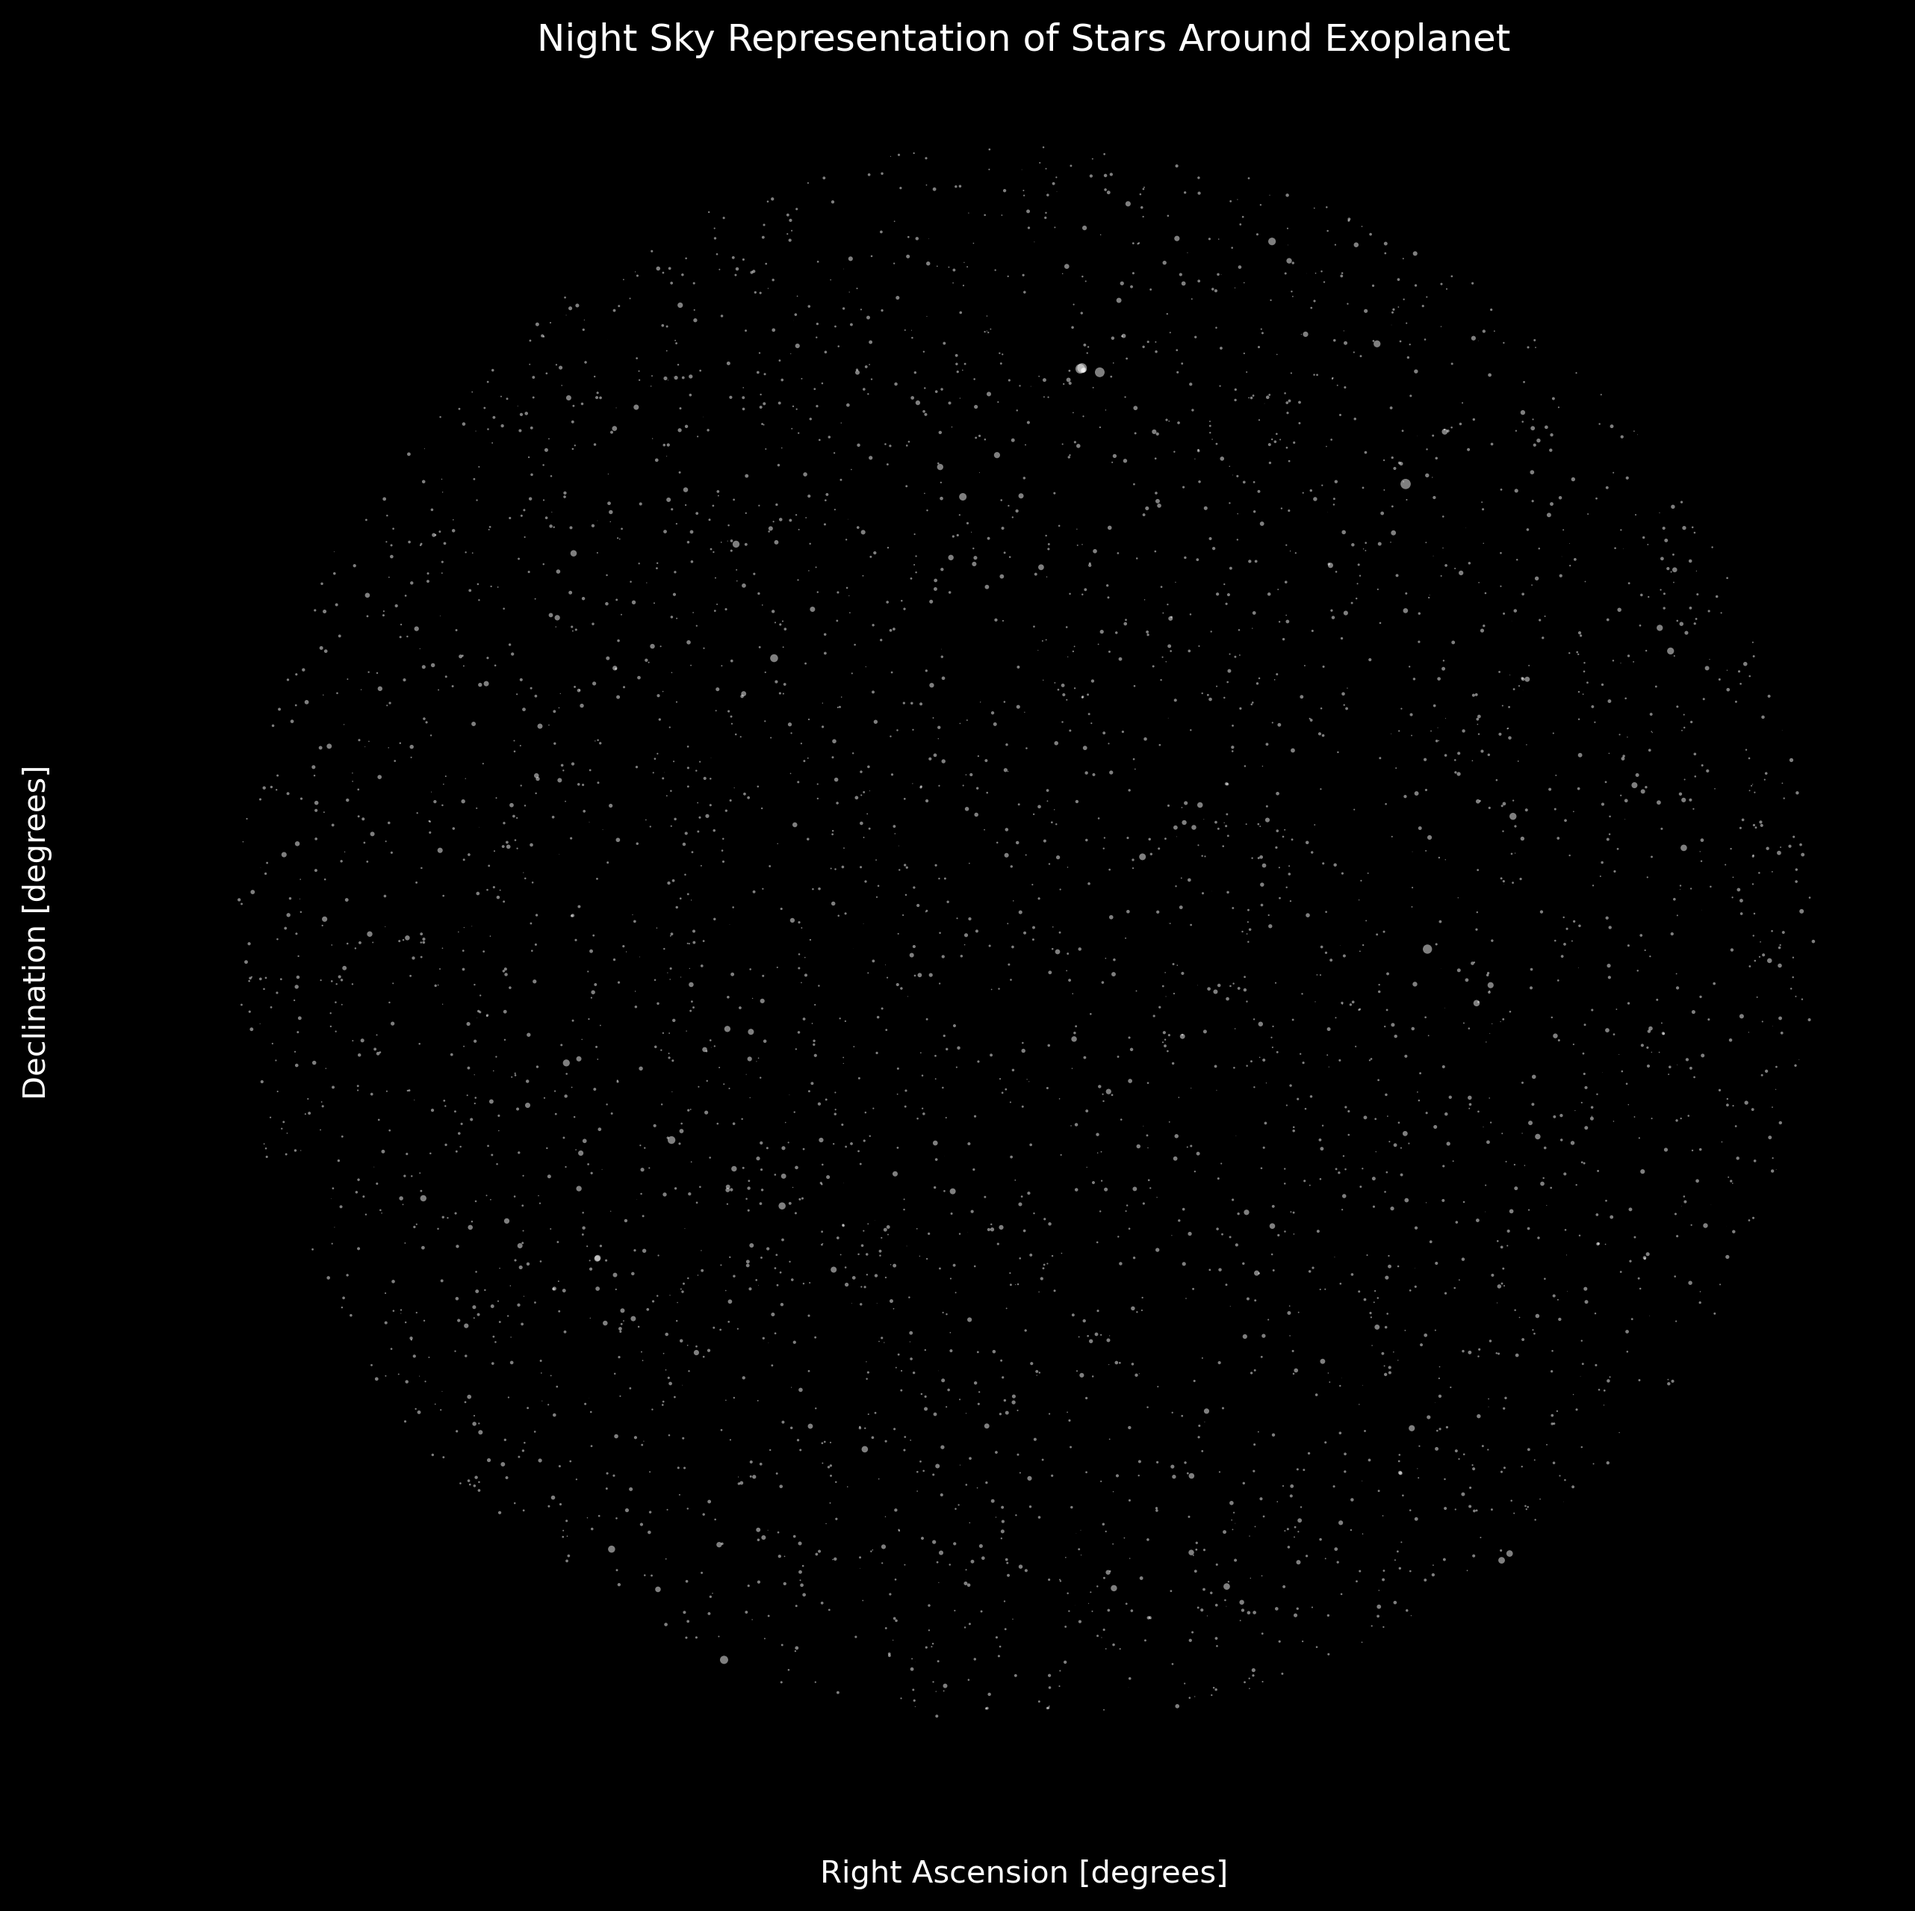
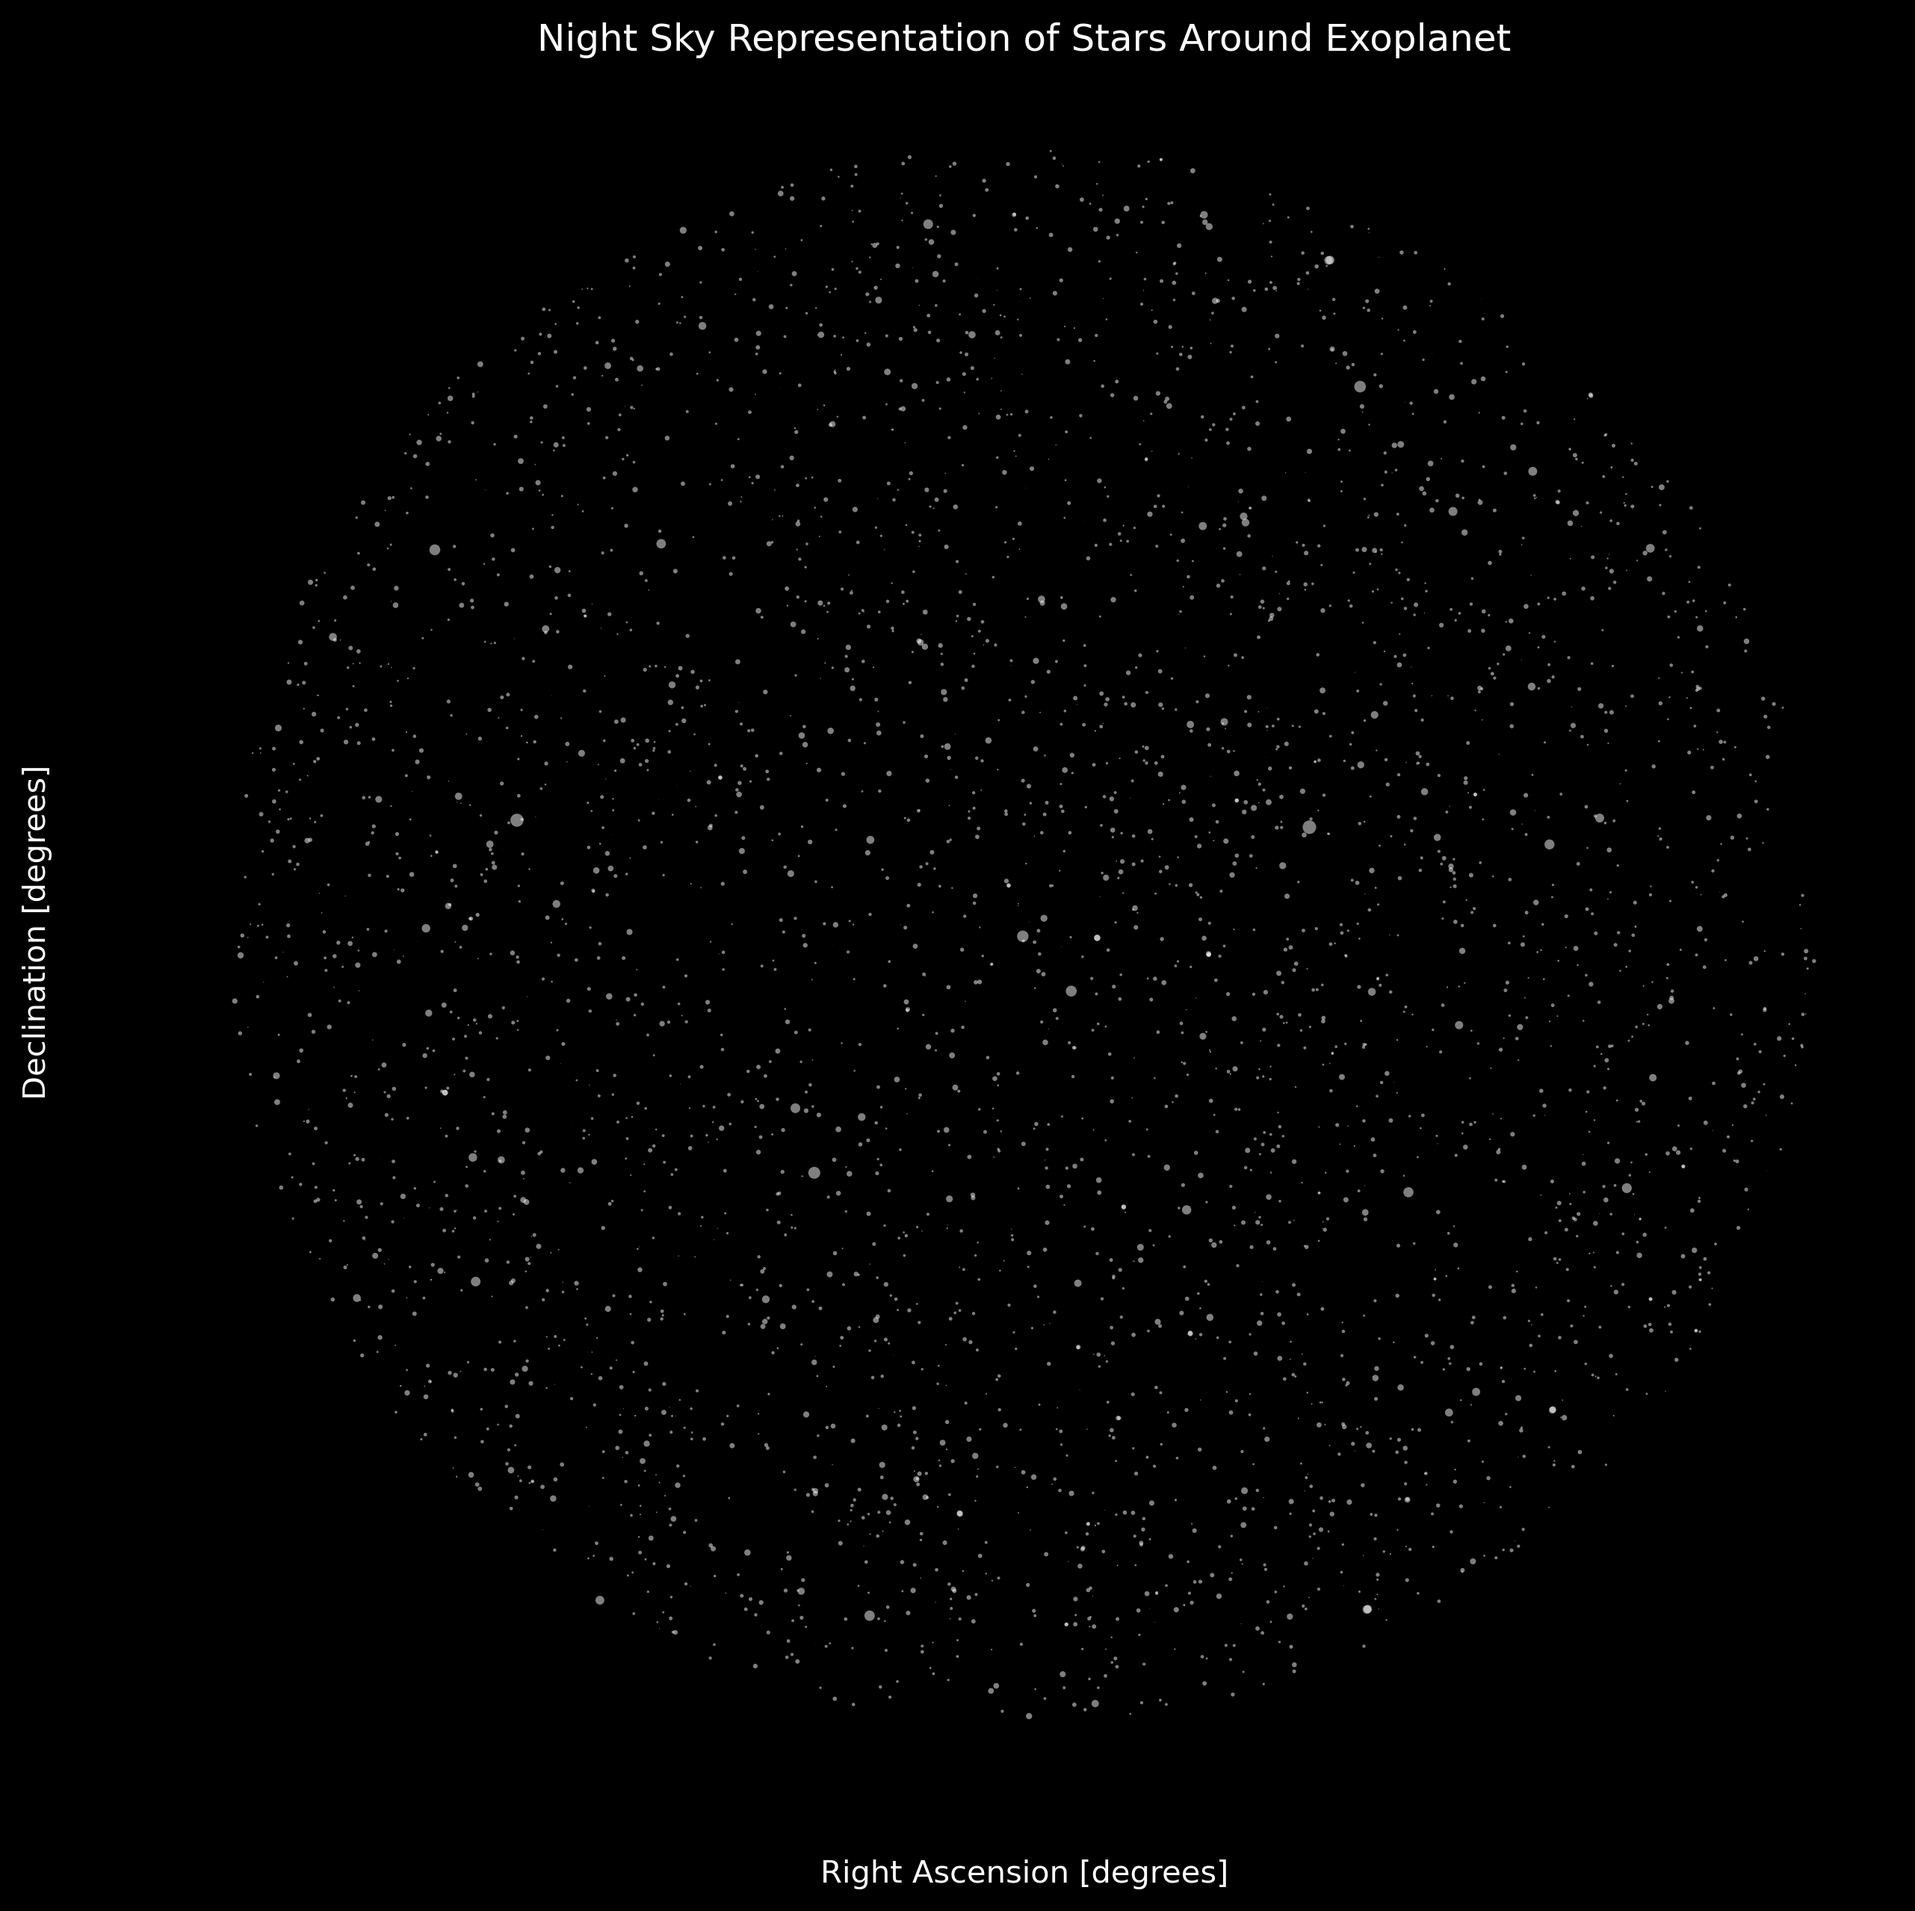
.

diff --git a/exoskyUI/3d-simulation.html b/exoskyUI/3d-simulation.html
@@ -16,10 +16,19 @@
             padding: 10px;
             display: none;
         }
+        #debug-info {
+            position: absolute;
+            top: 10px;
+            right: 10px;
+            color: white;
+            background-color: rgba(0,0,0,0.7);
+            padding: 10px;
+        }
     </style>
 </head>
 <body>
     <div id="error-message"></div>
+    <div id="debug-info"></div>
     <script>
         function loadScript(url) {
             return new Promise((resolve, reject) => {
@@ -48,11 +57,22 @@
         function init(starData) {
             console.log('Initializing 3D scene');
             scene = new THREE.Scene();
-            camera = new THREE.PerspectiveCamera(75, window.innerWidth / window.innerHeight, 0.1, 1000);
-            camera.position.z = 5;
+            camera = new THREE.PerspectiveCamera(75, window.innerWidth / window.innerHeight, 0.1, 10000);
+            camera.position.set(0, 0, 1500); // Move camera back further
+            controls = new THREE.OrbitControls(camera, renderer.domElement);
+            controls.enableDamping = true;
+            controls.dampingFactor = 0.05;
+            controls.screenSpacePanning = false;
+            controls.minDistance = 100;
+            controls.maxDistance = 3000;
+            camera.position.z = 200;
+
+            camera.position.set(0, 0, 500); // Move camera back further
+            controls.target.set(0, 0, 0); // Set control target to center of scene
 
             renderer = new THREE.WebGLRenderer({ antialias: true });
             renderer.setSize(window.innerWidth, window.innerHeight);
+            renderer.setClearColor(0x000000); // Set clear color to black
             document.body.appendChild(renderer.domElement);
 
             if (typeof THREE.OrbitControls !== 'function') {
@@ -65,6 +85,20 @@
             controls.enableDamping = true;
             controls.dampingFactor = 0.05;
 
+            // Add an ambient light
+            const ambientLight = new THREE.AmbientLight(0xffffff, 0.5);
+            scene.add(ambientLight);
+
+            // Add coordinate axes for debugging
+            const axesHelper = new THREE.AxesHelper(100);
+            scene.add(axesHelper);
+
+            // Add a bright sphere at the center for reference
+            const sphereGeometry = new THREE.SphereGeometry(2, 32, 32);
+            const sphereMaterial = new THREE.MeshBasicMaterial({ color: 0xffff00 });
+            const centerSphere = new THREE.Mesh(sphereGeometry, sphereMaterial);
+            scene.add(centerSphere);
+
             addStars(starData);
             animate();
 
@@ -72,11 +106,99 @@
         }
 
         function addStars(starData) {
-            // ... (rest of the addStars function remains the same)
+    const starGeometry = new THREE.BufferGeometry();
+    const positions = new Float32Array(starData.length * 3);
+    const colors = new Float32Array(starData.length * 3);
+    const sizes = new Float32Array(starData.length);
+
+    let minRA = Infinity, maxRA = -Infinity;
+    let minDec = Infinity, maxDec = -Infinity;
+
+    // First pass: find min and max values
+    starData.forEach(star => {
+        minRA = Math.min(minRA, star.ra);
+        maxRA = Math.max(maxRA, star.ra);
+        minDec = Math.min(minDec, star.dec);
+        maxDec = Math.max(maxDec, star.dec);
+    });
+
+    const scaleFactor = 1000; // Increased scale factor
+    const centerRA = (minRA + maxRA) / 2;
+    const centerDec = (minDec + maxDec) / 2;
+
+    starData.forEach((star, i) => {
+        // Normalize and center the positions
+        const x = ((star.ra - centerRA) / (maxRA - minRA)) * scaleFactor;
+        const y = ((star.dec - centerDec) / (maxDec - minDec)) * scaleFactor;
+        const z = (Math.random() - 0.5) * scaleFactor; // Random depth
+
+        positions[i * 3] = x;
+        positions[i * 3 + 1] = y;
+        positions[i * 3 + 2] = z;
+
+        const color = new THREE.Color().setHSL(0, 0, 0.9 + Math.random() * 0.1);
+        colors[i * 3] = color.r;
+        colors[i * 3 + 1] = color.g;
+        colors[i * 3 + 2] = color.b;
+
+        sizes[i] = Math.max(2, star.brightness ? star.brightness * 5 : 2);
+    });
+
+    starGeometry.setAttribute('position', new THREE.BufferAttribute(positions, 3));
+    starGeometry.setAttribute('color', new THREE.BufferAttribute(colors, 3));
+    starGeometry.setAttribute('size', new THREE.BufferAttribute(sizes, 1));
+
+    const starMaterial = new THREE.PointsMaterial({
+        size: 2,
+        vertexColors: true,
+        sizeAttenuation: true,
+        transparent: true,
+        opacity: 1,
+    });
+
+    stars = new THREE.Points(starGeometry, starMaterial);
+    scene.add(stars);
+
+    console.log('Added', starData.length, 'stars to the scene');
+    console.log('RA range:', minRA, 'to', maxRA);
+    console.log('Dec range:', minDec, 'to', maxDec);
+
+    updateDebugInfo(starData.length, -scaleFactor/2, scaleFactor/2, -scaleFactor/2, scaleFactor/2, -scaleFactor/2, scaleFactor/2);
+
+    // Add debug spheres
+    const debugSpheres = [
+        { position: new THREE.Vector3(scaleFactor/2, scaleFactor/2, scaleFactor/2), color: 0xff0000 },
+        { position: new THREE.Vector3(-scaleFactor/2, -scaleFactor/2, -scaleFactor/2), color: 0x00ff00 },
+        { position: new THREE.Vector3(0, 0, 0), color: 0x0000ff }
+    ];
+
+    debugSpheres.forEach(sphere => {
+        const geometry = new THREE.SphereGeometry(10, 32, 32);
+        const material = new THREE.MeshBasicMaterial({ color: sphere.color });
+        const mesh = new THREE.Mesh(geometry, material);
+        mesh.position.copy(sphere.position);
+        scene.add(mesh);
+    });
+}
+
+        function updateDebugInfo(starCount, minX, maxX, minY, maxY, minZ, maxZ) {
+            const debugElement = document.getElementById('debug-info');
+            debugElement.innerHTML = `
+                Stars: ${starCount}<br>
+                X: ${minX.toFixed(2)} to ${maxX.toFixed(2)}<br>
+                Y: ${minY.toFixed(2)} to ${maxY.toFixed(2)}<br>
+                Z: ${minZ.toFixed(2)} to ${maxZ.toFixed(2)}<br>
+                Camera Z: ${camera.position.z.toFixed(2)}
+            `;
         }
 
         function polarToCartesian(ra, dec, radius) {
-            // ... (polarToCartesian function remains the same)
+            const phi = (90 - dec) * Math.PI / 180;
+            const theta = ra * Math.PI / 180;
+            const x = radius * Math.sin(phi) * Math.cos(theta);
+            const y = radius * Math.cos(phi);
+            const z = -radius * Math.sin(phi) * Math.sin(theta);
+            return [x, y, z];
         }
 
         function animate() {
@@ -110,6 +232,9 @@
                 }
                 const starData = await response.json();
                 console.log('Received star data:', starData.length, 'stars');
+                if (starData.length > 0) {
+                    console.log('Sample star data:', starData.slice(0, 5));
+                }
                 if (starData.length === 0) {
                     showError("No star data found for this location.");
                 } else {
@@ -120,7 +245,7 @@
                 showError(`Error loading star data: ${error.message}`);
             }
         }
-
+        loadStarData();
         loadDependencies();
     </script>
 </body>
